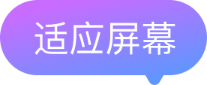
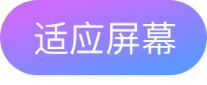
修改图标

Changed region(s): [[0.6957, 0.8706, 0.8116, 1.0]]

diff --git a/lib/ui/canvas/controllers/canvals_editor_page.dart b/lib/ui/canvas/controllers/canvals_editor_page.dart
@@ -59,7 +59,6 @@ class _CanvasEditorPagePageState extends State<CanvasEditorPage> {
     _canvasStatusManager.onMatrixChanged = (matrix, scale, offset) {
       if (!mounted) return;
       setState(() {
-        // _canvalsModel.transform = matrix.clone();
         _canvalsModel.updateMatrix4(matrix, scale, offset);
       });
     };
@@ -487,10 +486,6 @@ class _CanvasEditorPagePageState extends State<CanvasEditorPage> {
                             constraints.maxWidth,
                             constraints.maxHeight,
                           );
-
-                      debugPrint(
-                        "---哈哈哈哈--${_canvalsController.canvalsSize.width}--${_canvalsController.canvalsSize.height}--",
-                      );
 
                       final logicSize = Size(
                         _canvalsModel.width,

diff --git a/lib/ui/canvas/widgets/canvas_control_widget.dart b/lib/ui/canvas/widgets/canvas_control_widget.dart
@@ -30,8 +30,8 @@ class CanvasControlWidget extends StatelessWidget {
           child: Image.asset(
             'assets/images/canvals/canvals_floating_icon.png',
             width: 69.w,
-            height: 28.25.w,
-            fit: BoxFit.fill,
+            height: 28.5.w,
+            fit: BoxFit.cover,
           ),
         ),
 

diff --git a/lib/ui/canvas/model/canvas_element.dart b/lib/ui/canvas/model/canvas_element.dart
@@ -91,7 +91,7 @@ class CanvasElement {
     this.fontWeight = FontWeight.w500,
     this.lineHeight = 1.0,
     this.fontSpace = 0,
-    this.align = TextAlign.center,
+    this.align = TextAlign.left,
     this.textColor = "#000000",
     this.textAlpha = 1.0,
 

diff --git a/lib/ui/canvas/canvals/canvas_element_widget.dart b/lib/ui/canvas/canvals/canvas_element_widget.dart
@@ -132,7 +132,6 @@ class CanvasElementWidget extends StatelessWidget {
           width: data.width,
           height: data.height,
           color: Colors.transparent,
-          alignment: Alignment.topLeft,
           child: CanvasTextWidget(
             text: data.text,
             textStyle: TextStyle(